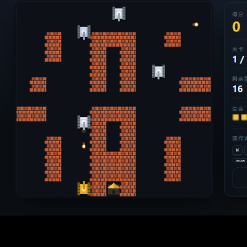
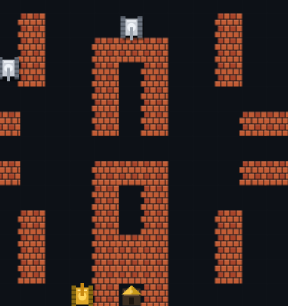
fix: 修复基地护墙缺角与 HUD 说明被截断
- buildBaseWalls 循环条件写反，导致左上一格护墙缺失，改为完整凹形三面墙
- HUD 操作说明精简行高、合并开火按键，避免小视口下被裁切
- README 补充在线试玩地址与新截图

diff --git a/css/style.css b/css/style.css
@@ -320,31 +320,31 @@ html, body {
   padding: 0;
   display: flex;
   flex-direction: column;
-  gap: 5px;
+  gap: 4px;
   font-size: 11px;
   color: var(--text-dim);
 }
 
-.keys li { display: flex; align-items: center; gap: 4px; }
-.keys li span { margin-left: 4px; }
+.keys li { display: flex; align-items: center; gap: 3px; }
+.keys li span { margin-left: 5px; }
 
 kbd {
   display: inline-block;
-  min-width: 20px;
-  padding: 2px 5px;
+  min-width: 18px;
+  padding: 1px 4px;
   border: 1px solid #2a3644;
   border-bottom-width: 2px;
   border-radius: 5px;
   background: #0f151d;
-  font: 600 10px/1.3 ui-monospace, "SFMono-Regular", Consolas, monospace;
+  font: 600 10px/1.4 ui-monospace, "SFMono-Regular", Consolas, monospace;
   text-align: center;
   color: #b9c7d6;
 }
 
 .tip {
-  margin: 12px 0 0;
-  font-size: 11px;
-  line-height: 1.7;
+  margin: 10px 0 0;
+  font-size: 10.5px;
+  line-height: 1.6;
   color: #5c6b7a;
 }
 

diff --git a/index.html b/index.html
@@ -91,12 +91,12 @@
       <div class="hud-label">操作说明</div>
       <ul class="keys">
         <li><kbd>W</kbd><kbd>A</kbd><kbd>S</kbd><kbd>D</kbd><span>移动</span></li>
-        <li><kbd>空格</kbd><kbd>J</kbd><span>开火</span></li>
+        <li><kbd>空格</kbd><span>开火</span></li>
         <li><kbd>P</kbd><span>暂停</span></li>
         <li><kbd>R</kbd><span>重开</span></li>
         <li><kbd>M</kbd><span>静音</span></li>
       </ul>
-      <p class="tip">保护基地 🏠，消灭所有敌方坦克。击落闪烁的红色坦克会掉落道具。</p>
+      <p class="tip">守住基地，消灭所有敌方坦克。</p>
     </div>
 
     <button id="restartBtn" class="btn ghost">重新开始 (R)</button>

diff --git a/js/game.js b/js/game.js
@@ -1256,9 +1256,10 @@
     },
 
     buildBaseWalls(type) {
+      // 基地左右两侧 + 上方一整排，形成「凹」字形护墙（下方是地图边界）
       const c = 6, r = 12;
-      for (let dr = -1; dr <= 0; dr++) {
-        for (let dc = -1; dc <= 1; dc++) {
+      for (let dc = -1; dc <= 1; dc++) {
+        for (let dr = -1; dr <= 0; dr++) {
           if (dr === 0 && dc === 0) continue;
           setTile(c + dc, r + dr, type);
         }

diff --git a/README.md b/README.md
@@ -1,6 +1,8 @@
 # 坦克大战 · Tank Battle
 
-一个用原生 HTML + Canvas 写的坦克大战游戏。**零依赖、无需构建、单机可玩**，双击 `index.html` 就能开始，也可以直接部署到 GitHub Pages。
+一个用原生 HTML + Canvas 写的坦克大战游戏。**零依赖、无需构建、单机可玩**，双击 `index.html` 就能开始。
+
+**在线试玩**：<https://xinyun251.github.io/tank-battle/>
 
 ![screenshot](docs/screenshot.png)
 
@@ -75,11 +77,15 @@ npx serve .
 | `W` | 水面（坦克不能过，子弹可过） |
 | `T` | 草丛（坦克可过，遮挡视线） |
 
-最后一排会由程序清空以保证通行，基地固定在 (6, 12)。
+最后一排会由程序清空以保证通行，基地固定在 (6, 12)，开局会自动在基地三面砌一圈砖墙护墙。
 
 ## 部署到 GitHub Pages
 
-仓库 **Settings → Pages**，Source 选 `Deploy from a branch`，分支选 `main`、目录选 `/ (root)`，保存后等一两分钟即可通过 `https://<用户名>.github.io/tank-battle/` 访问。
+本仓库已开启 Pages（分支 `main`、目录 `/`），访问地址：
+
+<https://xinyun251.github.io/tank-battle/>
+
+自己复刻时：仓库 **Settings → Pages**，Source 选 `Deploy from a branch`，分支选 `main`、目录选 `/ (root)`，保存后等一两分钟即可通过 `https://<用户名>.github.io/tank-battle/` 访问。
 
 > 私有仓库的 Pages 需要 GitHub Pro 等付费方案；公开仓库免费。
 
